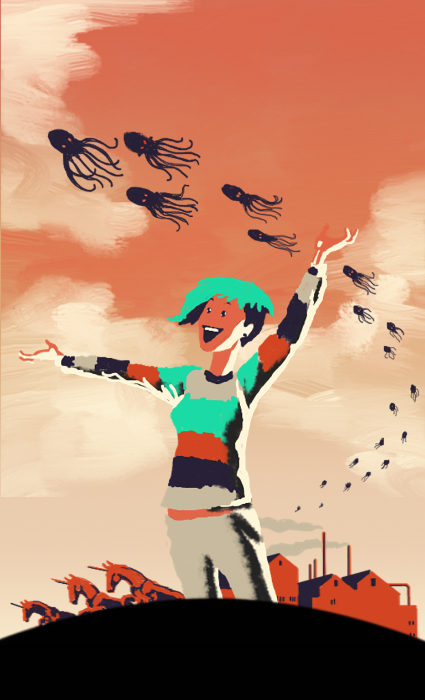
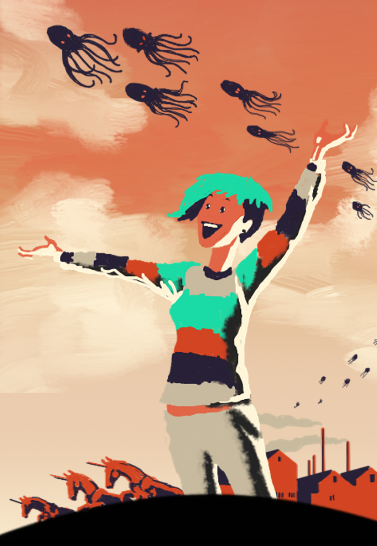
Initial final version compeleted.

diff --git a/style.css b/style.css
@@ -87,7 +87,7 @@ a:visited {
 #main .background-image {
     width: 100vw;
     height: auto;
-    background-image: url(Images/BackgroundImages/mysplendor_cl1.png);
+    background-image: url(Pictures/businessCards/mysplendor_cl1.png);
     background-repeat: no-repeat;
     background-position: center;
     background-size: cover;
@@ -150,10 +150,88 @@ a:visited {
     transform: scale(0.9);
 }
 
+.copyright {
+    color: #272036;
+    text-align: center;
+}
 
-@media (max-width: 430px) and (orientation: portrait) {
+@media (min-width: 451px) and (max-width: 660px) {
+    .menu-fullsize {
+        height: 10vh;
+        margin-right: 9vw;
+        padding: 0;
+        overflow: hidden;
+    }
+    
+    .menu-fullsize ul {
+        height: 100vh;
+    }
+    
+    .menu-fullsize ul li {
+        padding: 0 3vw;
+        margin: 0;
+        border-left: none; 
+    }
+    .menu-fullsize ul li:last-child {
+        border-right: none;
+    } 
+    
+    .menu-fullsize ul li:first-child {
+        border-right: none;
+    }
+    #main #title {
+        position: absolute;
+        margin-top: 100px;
+        margin-left: 1px;
+        color: #272036;
+        display: flex;
+        flex-direction: column;
+        z-index: 3;
+    }
+    
+    #main #title h1 {
+        display: none;
+    }
+    
+    #main #title h2 {
+        font-size: 30px;
+        padding-left: 1vw;
+        font-weight: 400;
+        text-shadow: 1px 1px 15px #D24624;
+        display: flex;
+        flex-direction: column;
+    }
+
+    #main #title h2 #small {
+        font-size: 20px;
+        padding-left: 30px;
+    }
+
+    #main #title h2 #smaller {
+        font-size: 20px;
+        padding-left: 30px;
+    }
+    
+    #main #title a {
+        top: 400px;
+        margin-top: 80px; 
+        padding-top: 10px;
+        padding-bottom: 20px; 
+        text-align: center;
+        border-radius: 10px;
+        font-weight: 400;
+        width: 100px;
+        height: 50px;
+        text-decoration: none;
+        font-size: 20px;
+    }
+}
+
+@media (max-width: 450px) {
     .menuMobile {
         overflow: hidden;
+        width: 100%;
+        height: 100%;
         background-color: #272036;
         position: relative;
         z-index: 2;
@@ -177,10 +255,11 @@ a:visited {
     
     .menuMobile #menuLinks {
         display: none;
-    }
-
-    ul {
         list-style: none;
+    }
+    
+    .menuMobile #menuLinks li a {
+        color: #C7BA9E;
     }
 
     .active {
@@ -198,59 +277,81 @@ a:visited {
         padding: 10px;
     }
 
+    .menu-fullsize {
+        display: none;
+        margin: 0;
+        padding: 0;
+        position: relative;
+    }
+
+    #main {
+        position: relative;
+        height: 100vh;
+        width: 99vw;
+        display: flex;
+    }
+    
     #main .background-image {
-        position: absolute; 
-        top: 0;
-        left: 0;
-        width: 100%;
-        height: 100%;
-        background-image: url("Images/BackgroundImages/mysplendor_mobile.png");
+        width: 100vw;
+        height: auto;
+        background-image: url("Pictures/businessCards/mysplendor_mobile.png");
         background-repeat: no-repeat;
         background-position: center;
         background-size: cover;
         z-index: 1;
     }
-
+    
     #main #title {
-        position: relative;
-        margin-top: 125px;
+        position: absolute;
+        margin-top: 100px;
+        margin-left: 1px;
         color: #272036;
-        text-shadow: 1px 1px 1px #C7BA9E;
-        z-index: 2;
+        display: flex;
+        flex-direction: column;
+        z-index: 3;
     }
-
+    
     #main #title h1 {
         display: none;
     }
-
+    
     #main #title h2 {
+        font-size: 30px;
+        padding-left: 1vw;
+        font-weight: 400;
+        text-shadow: 1px 1px 15px #D24624;
         display: flex;
         flex-direction: column;
+    }
+
+    #main #title h2 #small {
+        font-size: 20px;
+        padding-left: 30px;
+    }
+
+    #main #title h2 #smaller {
+        font-size: 20px;
+        padding-left: 30px;
+    }
+    
+    #main #title a {
+        top: 400px;
+        margin-top: 80px; 
+        padding-top: 10px;
+        padding-bottom: 20px; 
+        text-align: center;
+        border: 2px solid #272036;
+        border-radius: 10px;
         font-weight: 400;
-        padding-bottom: 150px;
-    }
-
-    #main #title #main-button {
+        width: 100px;
+        height: 50px;
         text-decoration: none;
-        padding: 8px 10px;
-        color: #C7BA9E;
-        text-shadow: 1px 1px 6px #D24624;  
-        background-color: #272036;      
-        border: 3px solid #C7BA9E;
-        border-radius: 40px;
+        font-size: 20px;
     }
-
-    #main #title #main-button:active {
-        transform: scale(0.9);
-        /* border-radius: 15px; */
-    }
-
-    #main #title #main-button:visited {
-        text-decoration: none;
-    } 
 }
 
-@media (prefers-color-scheme: dark) { 
+
+@media (prefers-color-scheme: dark) and (min-width: 450px){ 
     html {
         background-color: rgb(44, 44, 44);
     }
@@ -300,7 +401,7 @@ a:visited {
     }
     
     #main .background-image {
-        background-image: url(Images/BackgroundImages/mysplendor_cl_invert1.png);
+        background-image: url(Pictures/businessCards/mysplendor_cl_invert1.png);
     }
     
     #title {
@@ -334,6 +435,10 @@ a:visited {
     
     #title a:active {
         transform: scale(0.9);
+    }
+
+    #sneerFull a:hover{
+        color: #272036;
     }
 
     .copyright {

diff --git a/index.html b/index.html
@@ -62,7 +62,7 @@
         </div>
         <div id="title">
             <h1><span>Never</span> <span>Not</span> <span>Amanda</span></h1>
-            <h2><span>Artwork</span>  <span>Illustrations</span> <span>by Amanda Wood</span></h2>
+            <h2><span>Artwork</span> <span id="small">and</span> <span>Illustrations</span> <span id="smaller">by</span> <span>Amanda Wood</span></h2>
             <a href="#" id="main-button">Find Out More</a>
         </div>
     </section>
